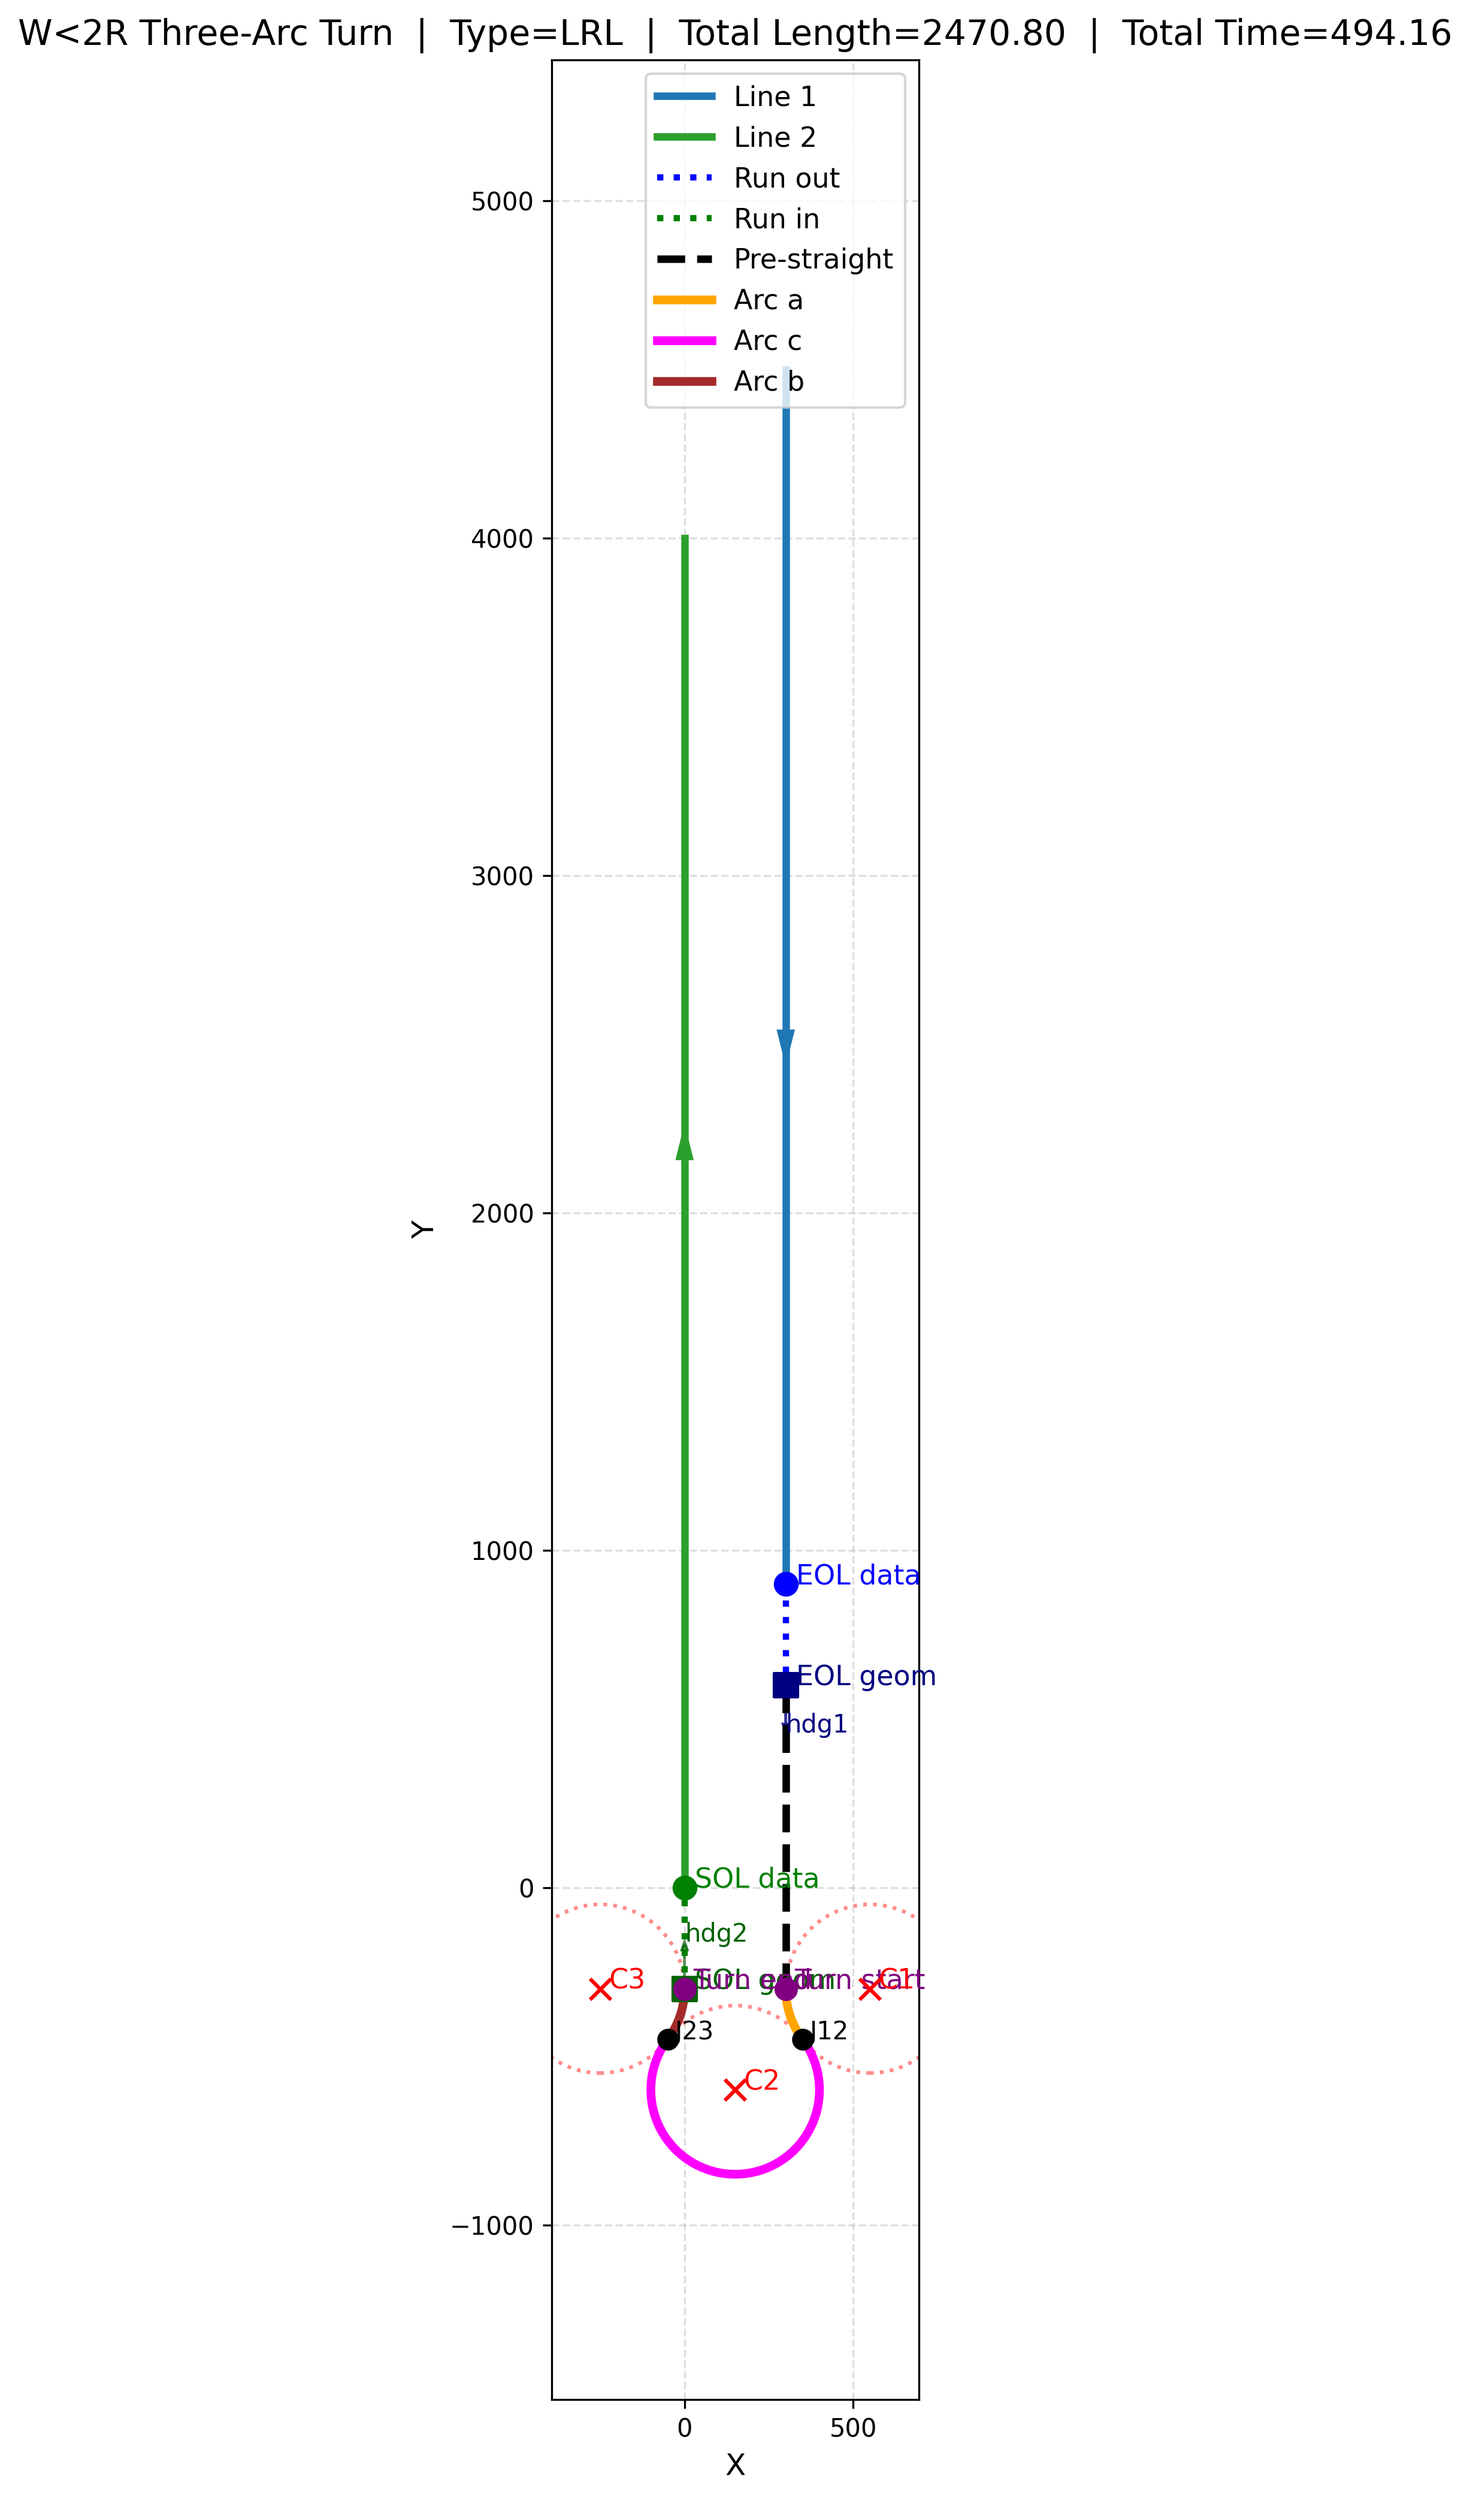
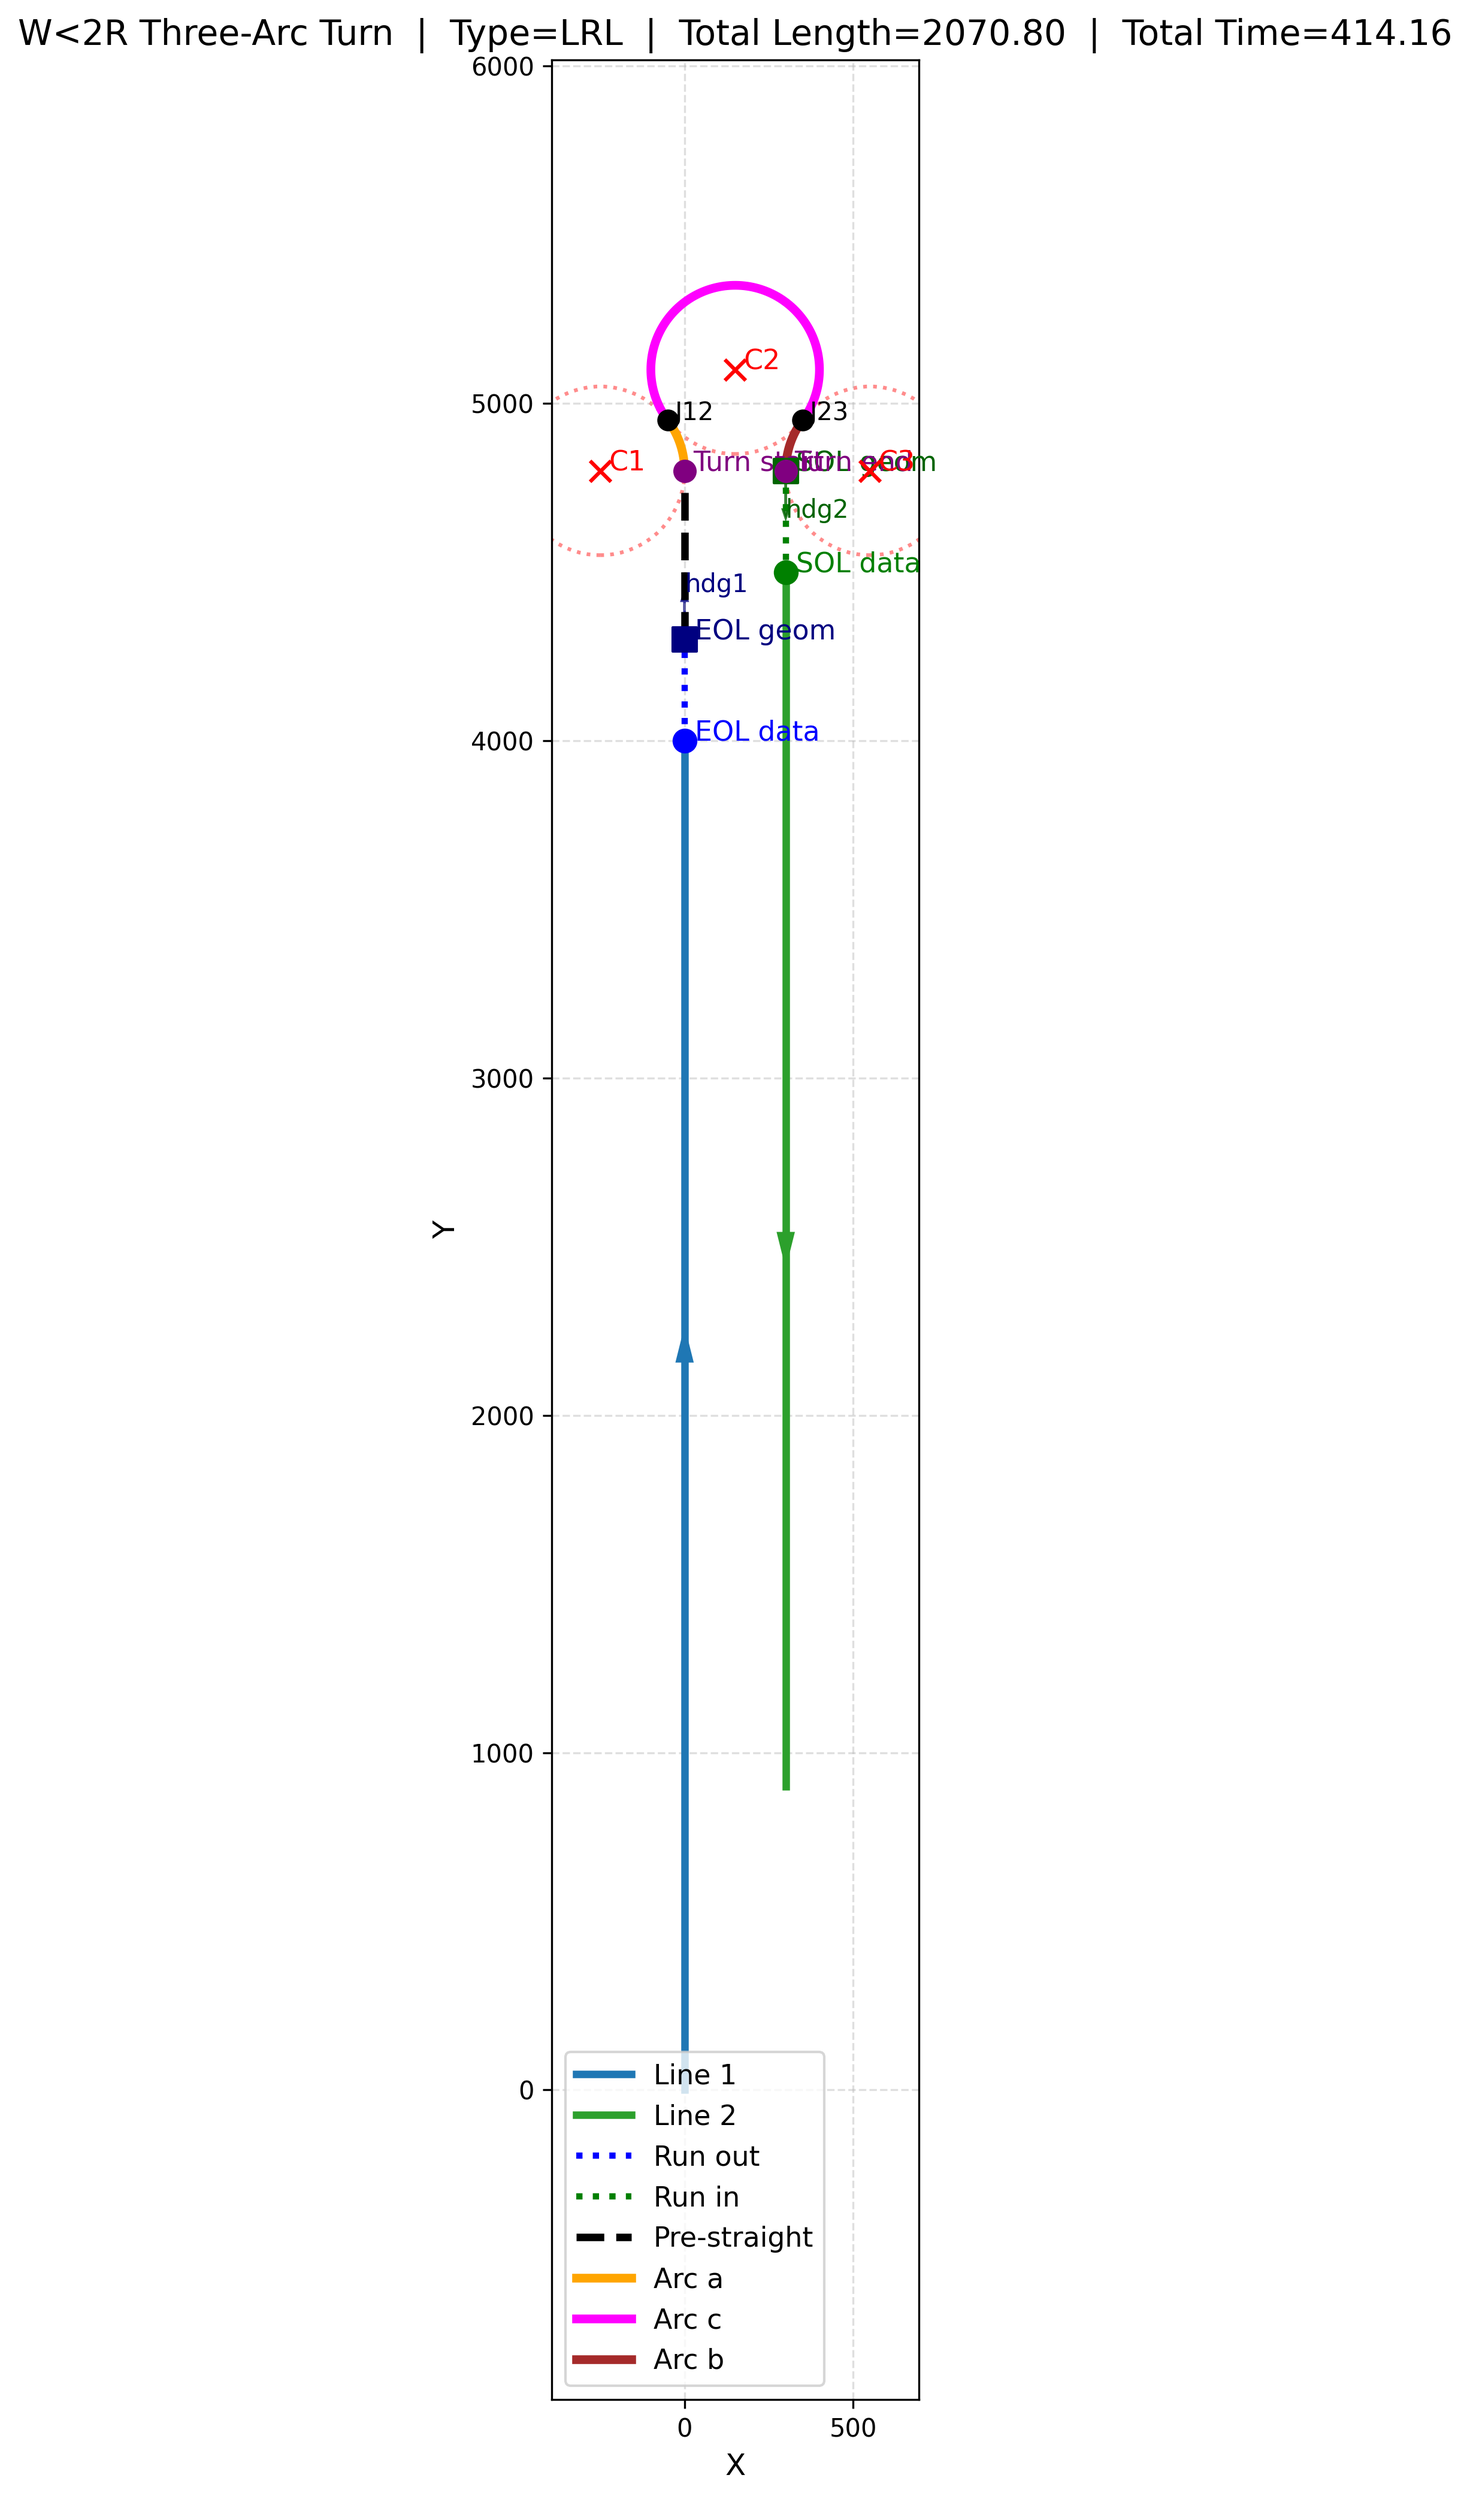
优化船舶沿测线的方向判定问题  根据 y_end >= y_start 自动计算 direction

Changed region(s): [[0.3716, 0.0312, 0.6194, 0.9664], [0.5884, 0.6235, 0.6194, 0.6547], [0.5884, 0.2182, 0.6194, 0.2494]]

diff --git a/main.py b/main.py
@@ -25,65 +25,56 @@ from three_arc import (
 
 if __name__ == "__main__":
     # 你当前测试例
-	# 左上->右下
+    # 左上->右下
     line1 = VerticalLine(
         x=0.0,
         y_start=0.0,
         y_end=4000.0,
-        direction=+1
     )
 
     line2 = VerticalLine(
-        x=300.0,
+        x=500.0,
         y_start=4500.0,
         y_end=900.0,
-        direction=-1
     )
-	
-	# # 左下->右上
+
+    # # 左下->右上
     # line1 = VerticalLine(
     #     x=0.0,
     #     y_start=4000.0,
     #     y_end=0.0,
-    #     direction=-1
     # )
-
+    #
     # line2 = VerticalLine(
     #     x=300.0,
     #     y_start=900.0,
     #     y_end=4500.0,
-    #     direction=+1
     # )
-	
-	
-	# # 右上->左下
+
+    # # 右上->左下
     # line2 = VerticalLine(
     #     x=0.0,
     #     y_start=4000.0,
     #     y_end=0.0,
-    #     direction=-1
     # )
-
+    #
     # line1 = VerticalLine(
     #     x=300.0,
     #     y_start=900.0,
     #     y_end=4500.0,
-    #     direction=+1
     # )
-	
-	# # 右下->左上
+
+    # # 右下->左上
     # line2 = VerticalLine(
     #     x=0.0,
     #     y_start=0.0,
     #     y_end=4000.0,
-    #     direction=+1
     # )
-
+    #
     # line1 = VerticalLine(
     #     x=300.0,
     #     y_start=4500.0,
     #     y_end=900.0,
-    #     direction=-1
     # )
 
     L_out = 300.0

diff --git a/common.py b/common.py
@@ -29,11 +29,16 @@ class VerticalLine:
     - y_end  : 采集终点
     - direction = +1 表示沿 +Y 方向采集
     - direction = -1 表示沿 -Y 方向采集
+    - direction 可自动由 y_end - y_start 推断，无需手动指定
     """
     x: float
     y_start: float
     y_end: float
-    direction: int  # +1 or -1
+    direction: int = 0  # 0 表示自动推断，也可手动指定 +1 或 -1
+
+    def __post_init__(self):
+        if self.direction == 0:
+            self.direction = 1 if self.y_end >= self.y_start else -1
 
     @property
     def length(self) -> float:
